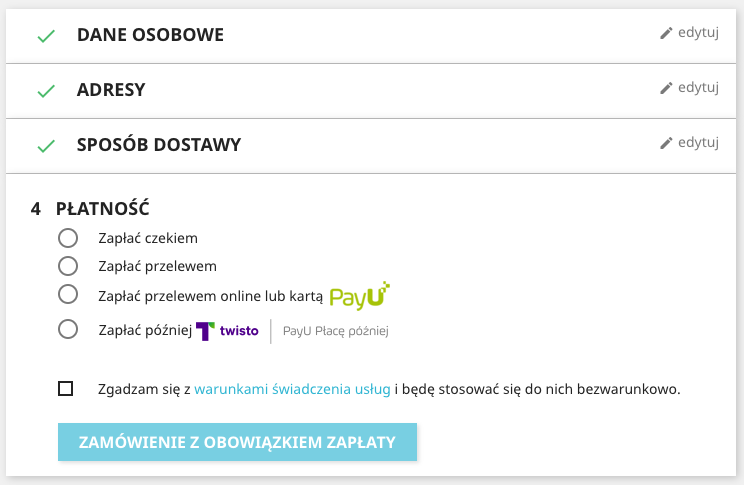
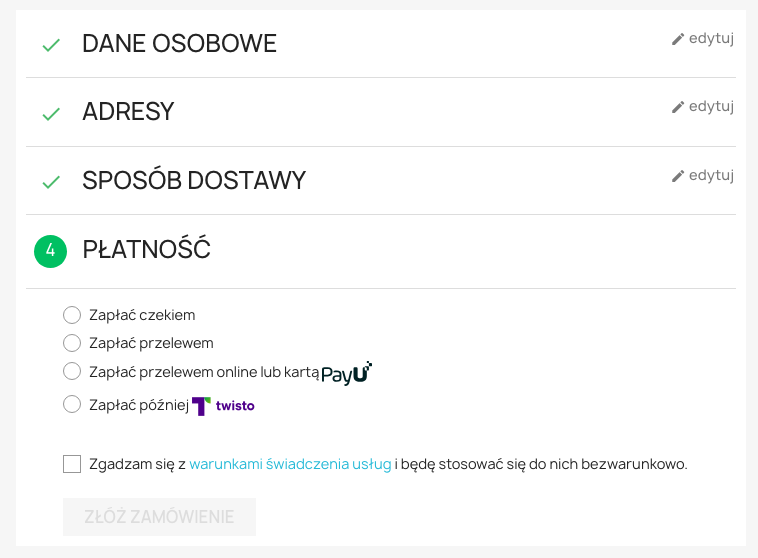
Separate Klarna and PayPo

diff --git a/payu/payu.php b/payu/payu.php
@@ -92,6 +92,8 @@ class PayU extends PaymentModule
             Configuration::updateValue('PAYU_PROMOTE_CREDIT_SUMMARY', 1) &&
             Configuration::updateValue('PAYU_PROMOTE_CREDIT_PRODUCT', 1) &&
             Configuration::updateValue('PAYU_SEPARATE_PAY_LATER_TWISTO', 0) &&
+            Configuration::updateValue('PAYU_SEPARATE_PAY_LATER_KLARNA', 0) &&
+            Configuration::updateValue('PAYU_SEPARATE_PAY_LATER_PAYPO', 0) &&
             Configuration::updateValue('PAYU_SEPARATE_BLIK_PAYMENT', 0) &&
             Configuration::updateValue('PAYU_PAYMENT_METHODS_GRID', 0)
         );
@@ -125,6 +127,8 @@ class PayU extends PaymentModule
             !Configuration::deleteByName('PAYU_PROMOTE_CREDIT_SUMMARY') ||
             !Configuration::deleteByName('PAYU_PROMOTE_CREDIT_PRODUCT') ||
             !Configuration::deleteByName('PAYU_SEPARATE_PAY_LATER_TWISTO') ||
+            !Configuration::deleteByName('PAYU_SEPARATE_PAY_LATER_KLARNA') ||
+            !Configuration::deleteByName('PAYU_SEPARATE_PAY_LATER_PAYPO') ||
             !Configuration::deleteByName('PAYU_SEPARATE_BLIK_PAYMENT') ||
             !Configuration::deleteByName('PAYU_PAYMENT_METHODS_GRID', 0)
         ) {
@@ -193,6 +197,8 @@ class PayU extends PaymentModule
                 !Configuration::updateValue('PAYU_PROMOTE_CREDIT_SUMMARY', (Tools::getValue('PAYU_PROMOTE_CREDIT_SUMMARY') ? 1 : 0)) ||
                 !Configuration::updateValue('PAYU_PROMOTE_CREDIT_PRODUCT', (Tools::getValue('PAYU_PROMOTE_CREDIT_PRODUCT') ? 1 : 0)) ||
                 !Configuration::updateValue('PAYU_SEPARATE_PAY_LATER_TWISTO', (Tools::getValue('PAYU_SEPARATE_PAY_LATER_TWISTO') ? 1 : 0)) ||
+                !Configuration::updateValue('PAYU_SEPARATE_PAY_LATER_KLARNA', (Tools::getValue('PAYU_SEPARATE_PAY_LATER_KLARNA') ? 1 : 0)) ||
+                !Configuration::updateValue('PAYU_SEPARATE_PAY_LATER_PAYPO', (Tools::getValue('PAYU_SEPARATE_PAY_LATER_PAYPO') ? 1 : 0)) ||
                 !Configuration::updateValue('PAYU_PAYMENT_METHODS_GRID', (Tools::getValue('PAYU_PAYMENT_METHODS_GRID') ? 1 : 0))
 
             ) {
@@ -355,6 +361,42 @@ class PayU extends PaymentModule
                         'label' => $this->l('Promote credit payment methods'),
                         'desc' => $this->l('Enables credit payment methods on summary and enables promoting installments'),
                         'name' => 'PAYU_PROMOTE_CREDIT',
+                        'values' => [
+                            [
+                                'id' => 'active_on',
+                                'value' => 1,
+                                'label' => $this->l('Enabled')
+                            ],
+                            [
+                                'id' => 'active_off',
+                                'value' => 0,
+                                'label' => $this->l('Disabled')
+                            ]
+                        ],
+                    ],
+                    [
+                        'type' => 'switch',
+                        'label' => $this->l('Separate pay later Klarna'),
+                        'desc' => $this->l('Shows separate Klarna payment method'),
+                        'name' => 'PAYU_SEPARATE_PAY_LATER_KLARNA',
+                        'values' => [
+                            [
+                                'id' => 'active_on',
+                                'value' => 1,
+                                'label' => $this->l('Enabled')
+                            ],
+                            [
+                                'id' => 'active_off',
+                                'value' => 0,
+                                'label' => $this->l('Disabled')
+                            ]
+                        ],
+                    ],
+                    [
+                        'type' => 'switch',
+                        'label' => $this->l('Separate pay later PayPo'),
+                        'desc' => $this->l('Shows separate PayPo payment method'),
+                        'name' => 'PAYU_SEPARATE_PAY_LATER_PAYPO',
                         'values' => [
                             [
                                 'id' => 'active_on',
@@ -604,6 +646,8 @@ class PayU extends PaymentModule
             'PAYU_PROMOTE_CREDIT_SUMMARY' => Configuration::get('PAYU_PROMOTE_CREDIT_SUMMARY'),
             'PAYU_PROMOTE_CREDIT_PRODUCT' => Configuration::get('PAYU_PROMOTE_CREDIT_PRODUCT'),
             'PAYU_SEPARATE_PAY_LATER_TWISTO' => Configuration::get('PAYU_SEPARATE_PAY_LATER_TWISTO'),
+            'PAYU_SEPARATE_PAY_LATER_KLARNA' => Configuration::get('PAYU_SEPARATE_PAY_LATER_KLARNA'),
+            'PAYU_SEPARATE_PAY_LATER_PAYPO' => Configuration::get('PAYU_SEPARATE_PAY_LATER_PAYPO'),
             'PAYU_PAYMENT_METHODS_GRID' => Configuration::get('PAYU_PAYMENT_METHODS_GRID'),
 
         ];
@@ -923,7 +967,56 @@ class PayU extends PaymentModule
         }
 
         $paymentOptions[] = $paymentOption;
-
+        if ($this->isPayLaterKlarnaAvailable($totalPrice)) {
+            if ($retry16) {
+                $payLaterKlarnaOption = [
+                    'CallToActionText' => $this->l('Pay later'),
+                    'AdditionalInformation' => '<span class="payment-name" data-pm="dpkl"></span>',
+                    'ModuleName' => $this->name,
+                    'Logo' => $this->getPayuLogo('payu_later_klarna_logo.svg')
+                ];
+            } else {
+                $payLaterKlarnaOption = new PrestaShop\PrestaShop\Core\Payment\PaymentOption();
+                $payLaterKlarnaOption
+                    ->setCallToActionText($this->l('Pay later'))
+                    ->setModuleName($this->name)
+                    ->setLogo($this->getPayuLogo('payu_later_klarna_logo.svg'))
+                    ->setAction($this->context->link->getModuleLink($this->name, 'payment',
+                        [
+                            'payMethod' => 'dpkl'
+                        ]
+                    ));
+                if ($retry) {
+                    $payLaterKlarnaOption->setAdditionalInformation('<span class="payment-name" data-pm="dpkl"></span>');
+                }
+            }
+            $paymentOptions[] = $payLaterKlarnaOption;
+        }
+        if ($this->isPayLaterPaypoAvailable($totalPrice)) {
+            if ($retry16) {
+                $payLaterPaypoOption = [
+                    'CallToActionText' => $this->l('Pay later'),
+                    'AdditionalInformation' => '<span class="payment-name" data-pm="dpp"></span>',
+                    'ModuleName' => $this->name,
+                    'Logo' => $this->getPayuLogo('payu_later_paypo_logo.png')
+                ];
+            } else {
+                $payLaterPaypoOption = new PrestaShop\PrestaShop\Core\Payment\PaymentOption();
+                $payLaterPaypoOption
+                    ->setCallToActionText($this->l('Pay later'))
+                    ->setModuleName($this->name)
+                    ->setLogo($this->getPayuLogo('payu_later_paypo_logo.png'))
+                    ->setAction($this->context->link->getModuleLink($this->name, 'payment',
+                        [
+                            'payMethod' => 'dpp'
+                        ]
+                    ));
+                if ($retry) {
+                    $payLaterPaypoOption->setAdditionalInformation('<span class="payment-name" data-pm="dpp"></span>');
+                }
+            }
+            $paymentOptions[] = $payLaterPaypoOption;
+        }
         if ($this->isPayLaterTwistoAvailable($totalPrice)) {
             if ($retry16) {
                 $payLaterTwistoOption = [
@@ -1012,14 +1105,24 @@ class PayU extends PaymentModule
                 'creditPayLaterTwistoActionUrl' => $this->context->link->getModuleLink('payu', 'payment', [
                     'payMethod' => 'dpt'
                 ]),
+                'creditPayLaterKlarnaActionUrl' => $this->context->link->getModuleLink('payu', 'payment', [
+                    'payMethod' => 'dpkl'
+                ]),
+                'creditPayLaterPaypoActionUrl' => $this->context->link->getModuleLink('payu', 'payment', [
+                    'payMethod' => 'dpp'
+                ]),
                 'credit_available' => $this->isCreditAvailable($params['cart']->getOrderTotal()),
                 'payu_later_twisto_available' => $this->isPayLaterTwistoAvailable($params['cart']->getOrderTotal()),
+                'payu_later_klarna_available' => $this->isPayLaterKlarnaAvailable($params['cart']->getOrderTotal()),
+                'payu_later_paypo_available' => $this->isPayLaterPaypoAvailable($params['cart']->getOrderTotal()),
                 'cart_total_amount' => $params['cart']->getOrderTotal(),
                 'credit_pos' => OpenPayU_Configuration::getMerchantPosId(),
                 'credit_pos_key' => substr(OpenPayU_Configuration::getOauthClientSecret(), 0, 2),
 
                 'separateBlik' => Configuration::get('PAYU_SEPARATE_BLIK_PAYMENT'),
                 'separateTwisto' => Configuration::get('PAYU_SEPARATE_PAY_LATER_TWISTO'),
+                'separateKlarna' => Configuration::get('PAYU_SEPARATE_PAY_LATER_KLARNA'),
+                'separatePaypo' => Configuration::get('PAYU_SEPARATE_PAY_LATER_PAYPO'),
                 'separateCard' => Configuration::get('PAYU_SEPARATE_CARD_PAYMENT'),
                 'paymentGrid' => Configuration::get('PAYU_PAYMENT_METHODS_GRID'),
                 'conditionTemplate' => _PS_MODULE_DIR_ . 'payu/views/templates/front/conditions17.tpl',
@@ -1530,7 +1633,7 @@ class PayU extends PaymentModule
         }
 
 
-        if ($payMethod === 'ai' || $payMethod === 'dp' || $payMethod === 'dpt' || $payMethod === 'dpp') {
+        if ($payMethod === 'ai' || $payMethod === 'dp' || $payMethod === 'dpt' || $payMethod === 'dpp' || $payMethod === 'dpkl') {
             $ocreq['credit'] = $this->getCreditSection();
         }
 
@@ -2510,6 +2613,36 @@ class PayU extends PaymentModule
     {
         return (Configuration::get('PAYU_SEPARATE_PAY_LATER_TWISTO') === '1')
             && PayMethodsCache::isPaytypeAvailable('dpt',
+                Currency::getCurrency($this->context->cart->id_currency),
+                $this->getLanguage(),
+                $amount,
+                $this->getVersion());
+    }
+
+    /**
+     * @param float $amount
+     *
+     * @return bool
+     */
+    private function isPayLaterKlarnaAvailable($amount)
+    {
+        return (Configuration::get('PAYU_SEPARATE_PAY_LATER_KLARNA') === '1')
+            && PayMethodsCache::isPaytypeAvailable('dpkl',
+                Currency::getCurrency($this->context->cart->id_currency),
+                $this->getLanguage(),
+                $amount,
+                $this->getVersion());
+    }
+
+    /**
+     * @param float $amount
+     *
+     * @return bool
+     */
+    private function isPayLaterPaypoAvailable($amount)
+    {
+        return (Configuration::get('PAYU_SEPARATE_PAY_LATER_PAYPO') === '1')
+            && PayMethodsCache::isPaytypeAvailable('dpp',
                 Currency::getCurrency($this->context->cart->id_currency),
                 $this->getLanguage(),
                 $amount,

diff --git a/payu/controllers/front/payment.php b/payu/controllers/front/payment.php
@@ -44,6 +44,7 @@ class PayUPaymentModuleFrontController extends ModuleFrontController
             $payMethod === 'blik' ||
             $payMethod === 'dp' ||
             $payMethod === 'dpt' ||
+            $payMethod === 'dpkl' ||
             $payMethod === 'dpp'
         ) {
             $this->pay($payMethod, [], $payMethod);

diff --git a/README.EN.md b/README.EN.md
@@ -27,23 +27,25 @@ The PayU payments Prestashop plugin adds the PayU payment option and enables you
 
 Plugin version 3.x supports PrestaShop versions 1.6 and 1.7
 
-| Feature                                                         |   PrestaShop 1.6    |    PrestaShop 1.7    |
-|-----------------------------------------------------------------|:-------------------:|:--------------------:|
-| Creating a payment order (with discounts included)              | :white_check_mark:  | :white_check_mark:   |
-| Capturing a payment order (when auto-capture is disabled)       | :white_check_mark:  |  :white_check_mark:  |
-| Conducting a refund operation (whole or partial)                | :white_check_mark:  |  :white_check_mark:  |
-| Displaying payment methods on Presta checkout summary page      | :white_check_mark:  |  :white_check_mark:  |
-| Card payment as separate method                                 | :white_check_mark:  |  :white_check_mark:  |
-| Card payment via widget on summary page                         | :white_check_mark:  |  :white_check_mark:  |
-| Payment retry for cancelled payments                            | :white_check_mark:  |  :white_check_mark:  |
-| Repayment                                                       | :white_check_mark:  |  :white_check_mark:  |
-| Multi-currency support                                          | :white_check_mark:  |  :white_check_mark:  |
-| Payment method order                                            | :white_check_mark:  |  :white_check_mark:  |
-| Promoting [PayU Installments][ext10] and [PayU Later][ext9]     | :white_check_mark:  |  :white_check_mark:  |
-| Twisto payment as separate method                               | :white_check_mark:  |  :white_check_mark:  |
-| Present installment estimated value on product and listing page | :white_check_mark:  |  :white_check_mark:  |
-| Present installment estimated value in checkout view            | :white_check_mark:  |  :white_check_mark:  |
-| Present installment estimated value in cart view                |         :x:         |  :white_check_mark:  |
+| Feature                                                         |   PrestaShop 1.6   |   PrestaShop 1.7   |
+|-----------------------------------------------------------------|:------------------:|:------------------:|
+| Creating a payment order (with discounts included)              | :white_check_mark: | :white_check_mark: |
+| Capturing a payment order (when auto-capture is disabled)       | :white_check_mark: | :white_check_mark: |
+| Conducting a refund operation (whole or partial)                | :white_check_mark: | :white_check_mark: |
+| Displaying payment methods on Presta checkout summary page      | :white_check_mark: | :white_check_mark: |
+| Card payment as separate method                                 | :white_check_mark: | :white_check_mark: |
+| Card payment via widget on summary page                         | :white_check_mark: | :white_check_mark: |
+| Payment retry for cancelled payments                            | :white_check_mark: | :white_check_mark: |
+| Repayment                                                       | :white_check_mark: | :white_check_mark: |
+| Multi-currency support                                          | :white_check_mark: | :white_check_mark: |
+| Payment method order                                            | :white_check_mark: | :white_check_mark: |
+| Promoting [PayU Installments][ext10] and [PayU Later][ext9]     | :white_check_mark: | :white_check_mark: |
+| Klarna payment as separate method                               | :white_check_mark: | :white_check_mark: |
+| PayPo payment as separate method                                | :white_check_mark: | :white_check_mark: |
+| Twisto payment as separate method                               | :white_check_mark: | :white_check_mark: |
+| Present installment estimated value on product and listing page | :white_check_mark: | :white_check_mark: |
+| Present installment estimated value in checkout view            | :white_check_mark: | :white_check_mark: |
+| Present installment estimated value in cart view                |        :x:         | :white_check_mark: |
 
 More information on the features can be found in the [More on features](#more-on-features) section
 
@@ -171,7 +173,7 @@ Plugin version 3.0.10 introduced functionality of promoting [credit payment meth
 Functionality is enabled by default. It can be deactivated using "Promote credit" switch in admin panel.
 Support for given functionalities has been described in [Features](#features) section.
  > Presenting credit widgets is dependent on gateways availability for given point of sale (POS).
- Plugin automatically checks whether "ai" or "dpt" gateways are enabled.
+ Plugin automatically checks whether "ai", "dpt", "dpp" or "dpkl" gateways are enabled.
  If used POS doesn't have credit agreement activated functionality will not work, and widget presentation will be
  supressed (even if flag in admin panel is enabled).
 
@@ -184,6 +186,8 @@ Support for given functionalities has been described in [Features](#features) se
 |1.7|Product page|<img src="readme_images/credit-1-7-product.png" width="100">|
 |1.7|Cart| <img src="readme_images/credit-1-7-cart.png" width="100">|
 |1.7|Promote credit payment methods|<img src="readme_images/credit-1-7-checkout-promote-credit.png" width="100">|
+|1.7|PayPo payment as separate method |<img src="readme_images/credit-1-7-checkout-separate-paypo.png" width="100">|
+|1.7|Klarna payment as separate method |<img src="readme_images/credit-1-7-checkout-separate-klarna.png" width="100">|
 |1.7|Twisto payment as separate method|<img src="readme_images/credit-1-7-checkout-separate-twisto.png" width="100">|
 |1.6|Products listing|<img src="readme_images/credit-1-6-listing.png" width="100">|
 |1.6|Product page|<img src="readme_images/credit-1-6-product.png" width="100">|

diff --git a/README.md b/README.md
@@ -41,6 +41,8 @@ Plugin w wersji 3.x wspiera PrestaShop w wersji 1.6 i 1.7
 | Wielowalutowość                                                                | :white_check_mark:  | :white_check_mark: |
 | Kolejność metod płatności                                                      | :white_check_mark:  | :white_check_mark: |
 | Promowanie [PayU Raty][ext10] i [PayU Płacę Później][ext9]                     | :white_check_mark:  | :white_check_mark: |
+| Płatność Klarna jako osobna metoda płatności                                   | :white_check_mark: | :white_check_mark: |
+| Płatność PayPo jako osobna metoda płatności                                    | :white_check_mark: | :white_check_mark: |
 | Płatność Twisto jako osobna metoda płatności                                   | :white_check_mark:  | :white_check_mark: |
 | Prezentacja kalkulacji ratalnej przy produkcie i listingu                      | :white_check_mark:  | :white_check_mark: |
 | Prezentacja kalkulacji ratalnej na podsumowaniu                                | :white_check_mark:  | :white_check_mark: |
@@ -175,7 +177,7 @@ Od wersji 3.0.10 plugin udostępnia opcję promowania [płatności ratalnych i o
 Funkcjonalność jest domyślnie włączona. Można ją dezaktywować poprzez przełącznik "Promuj płatności ratalne" w panelu
  admińskim. Wsparcie dla konkretnych funkcjonalności przedstawione zostało w tabeli [Cechy i
  Kompatybilność](#cechy-i-kompatybilność).
- > Prezentacja kalkulacji zależna jest od dostępności bramek "ai" oraz "dpt" na danym punkcie płatności i sprawdzana
+ > Prezentacja kalkulacji zależna jest od dostępności bramek "ai", "dpt", "dpp" oraz "dpkl" na danym punkcie płatności i sprawdzana
  jest automatycznie przez plugin. Jeśli na punkcie płatności nie zostały aktywowane Raty PayU kalkulacja nie zostanie
  zaprezentowana pomimo włączonej opcji w pluginie.
 
@@ -188,6 +190,8 @@ Funkcjonalność jest domyślnie włączona. Można ją dezaktywować poprzez pr
 |1.7|Karta produktu|<img src="readme_images/credit-1-7-product.png" width="100">|
 |1.7|Koszyk| <img src="readme_images/credit-1-7-cart.png" width="100">|
 |1.7|Promowanie płatności ratalnych|<img src="readme_images/credit-1-7-checkout-promote-credit.png" width="100">|
+|1.7|Wydzielenie Klarna jako metody płatności | <img src="readme_images/credit-1-7-checkout-separate-klarna.png" width="100"> |
+|1.7|Wydzielenie PayPo jako metody płatności | <img src="readme_images/credit-1-7-checkout-separate-paypo.png" width="100">  |
 |1.7|Wydzielenie Twisto jako metody płatności|<img src="readme_images/credit-1-7-checkout-separate-twisto.png" width="100">|
 |1.6|Listing produktów|<img src="readme_images/credit-1-6-listing.png" width="100">|
 |1.6|Karta produktu|<img src="readme_images/credit-1-6-product.png" width="100">|
